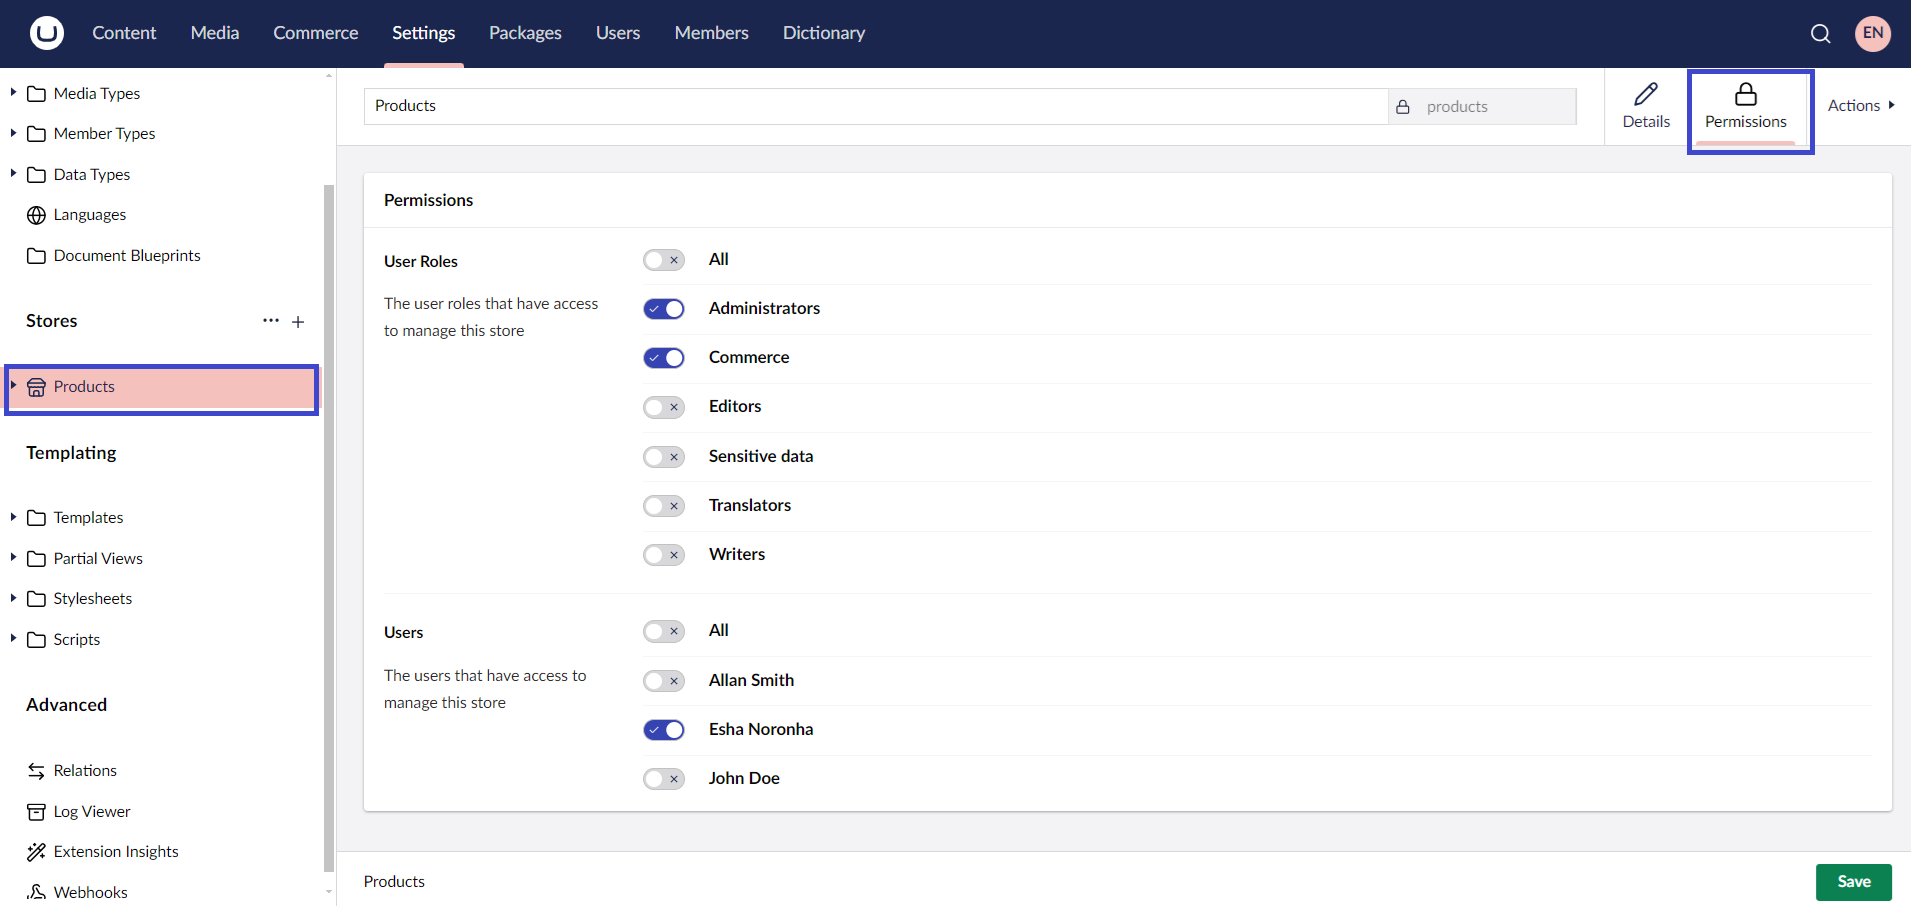
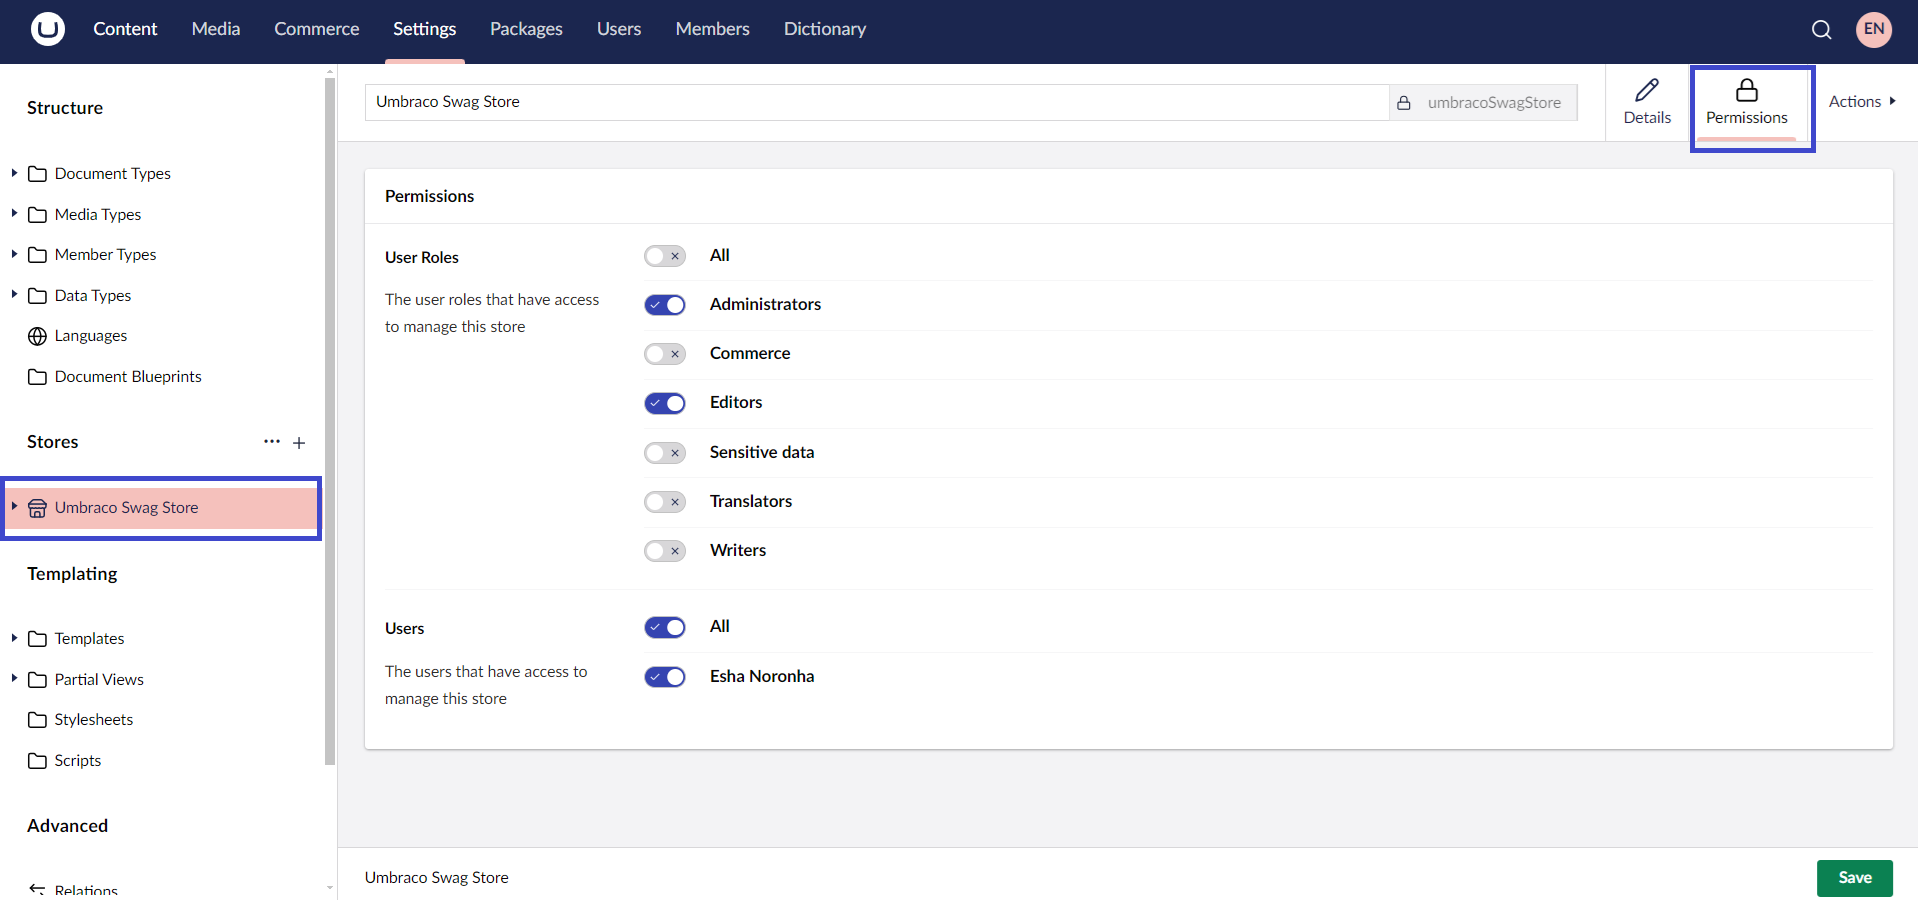
Fixed last image to reflect new store name

diff --git a/14/umbraco-commerce/tutorials/getting-started-with-commerce.md b/14/umbraco-commerce/tutorials/getting-started-with-commerce.md
@@ -1,5 +1,5 @@
 ---
-description: "A comprehensive guide to setting up Umbraco Commerce, including an introduction to basic concepts and configuration."
+description: "A guide to setting up Umbraco Commerce, including an introduction to basic concepts and configuration."
 ---
 # A Beginner's Guide to Umbraco Commerce
 
